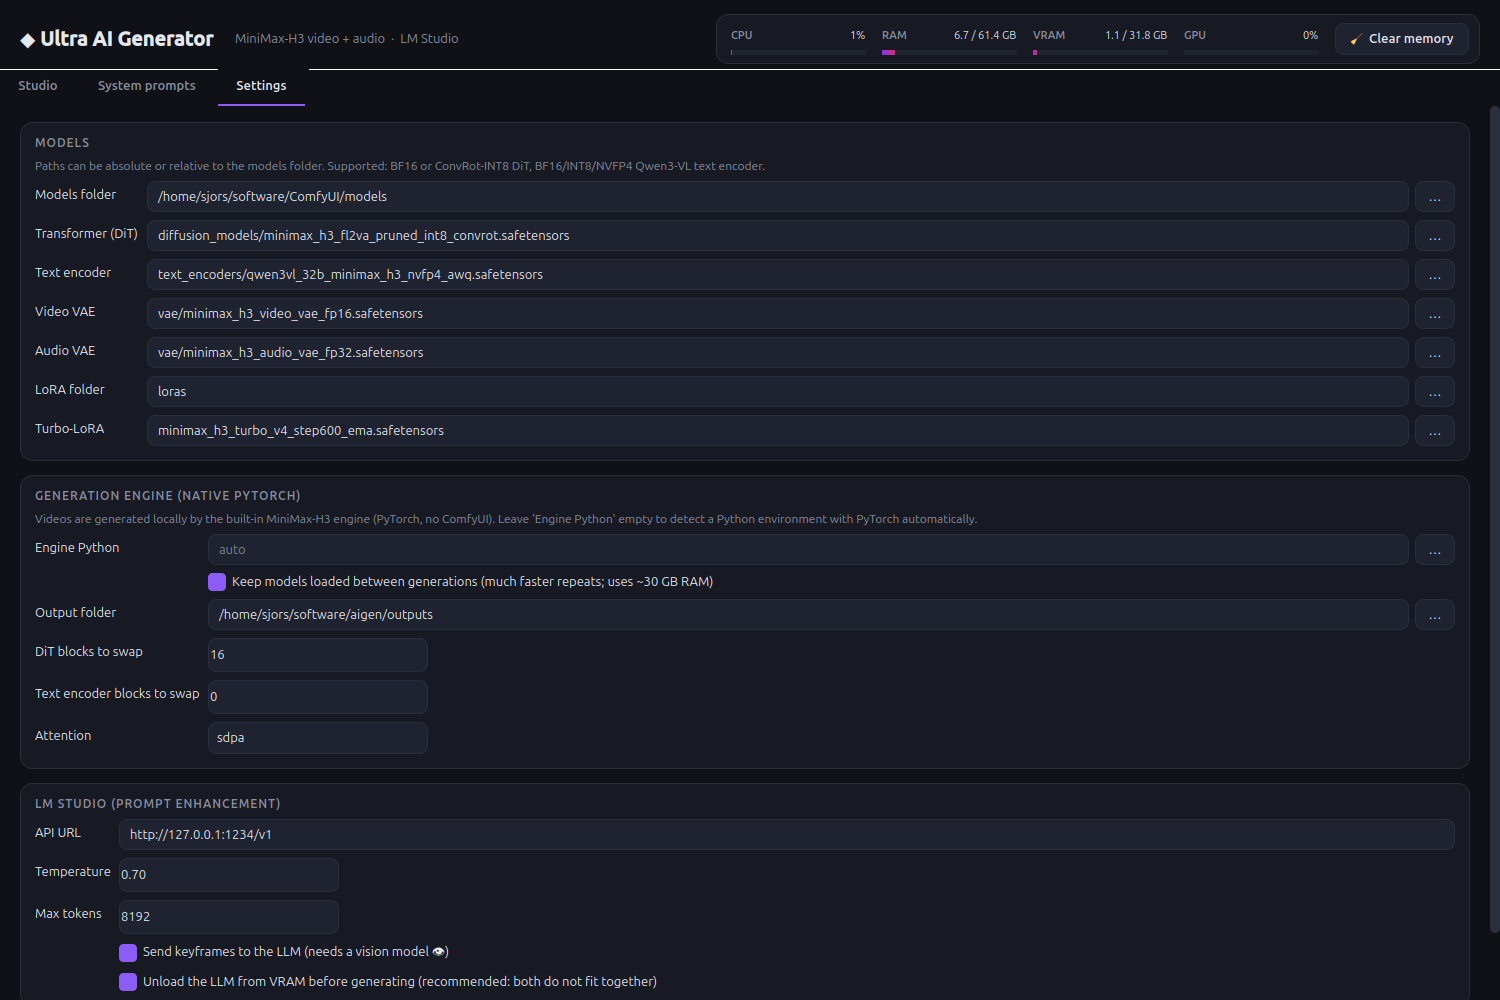
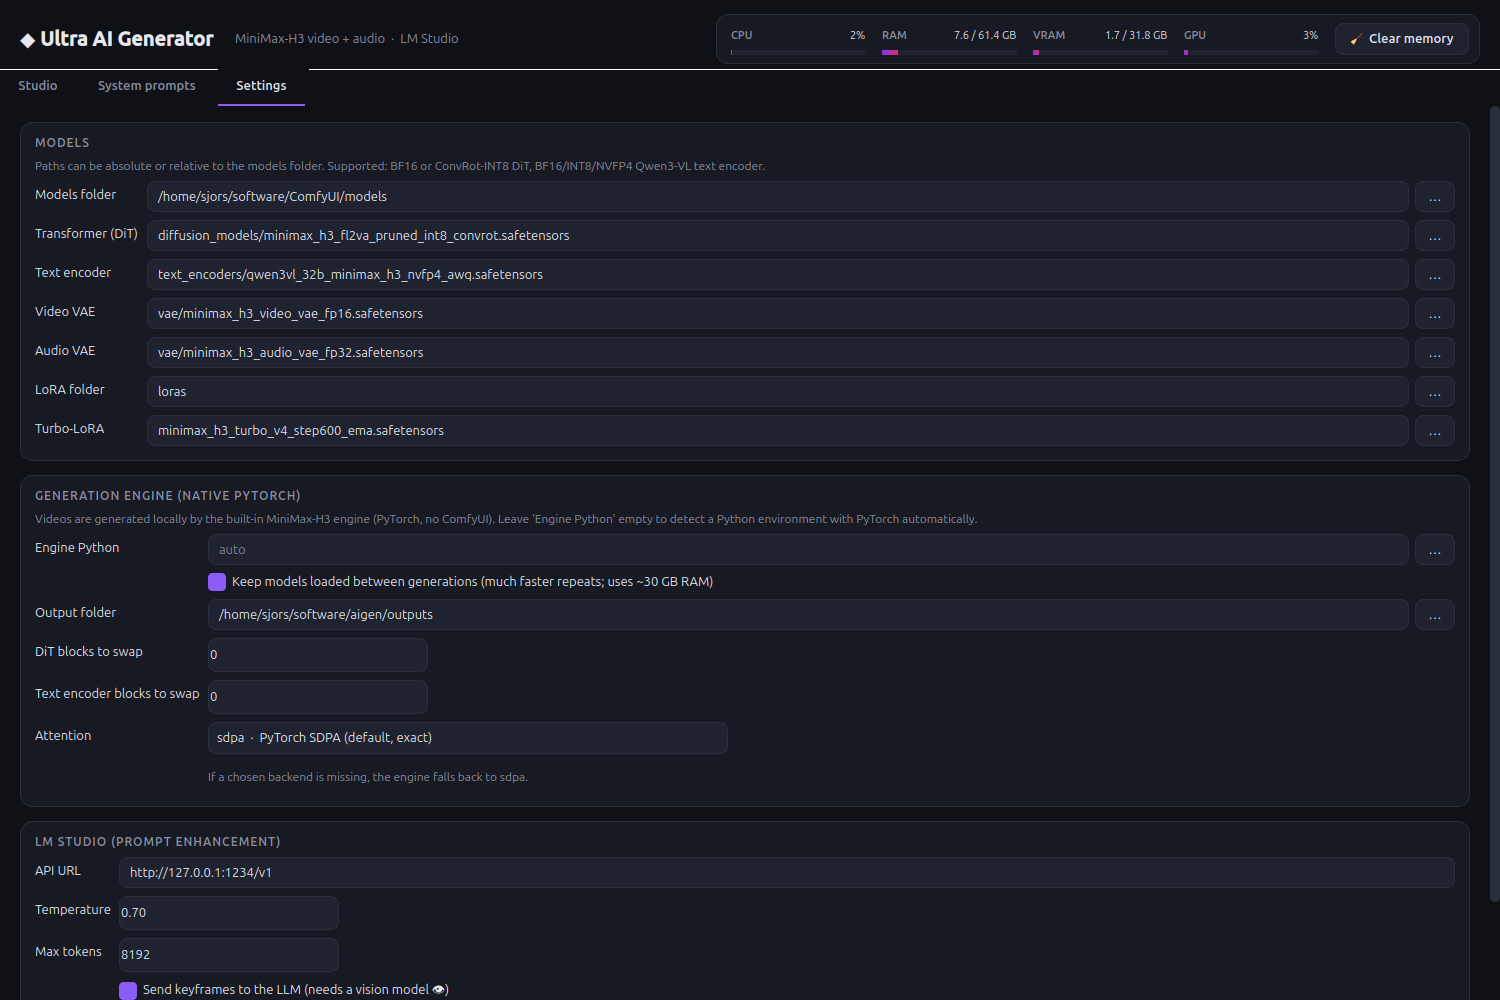
Add optional SageAttention support
SageAttention 1.0.6 works on the RTX 5090 (sm_120): about 1.8x faster
attention, and 25% faster sampling for 1344x768, 5 s (105 s -> 79 s),
more for longer videos. Outputs are just as sharp, but the same seed
gives a slightly different variant than sdpa (8-bit Q/K).

- setup_engine.sh --sage / setup_engine.bat sage installs it
  (requirements-engine-sage.txt), also into an existing environment
- Settings lists the attention backends with a description and which
  are installed in the engine environment
- The engine reports available backends and falls back to sdpa when
  the chosen one is missing instead of failing
- README: install option, setting and timings

Changed region(s): [[0.0307, 0.775, 0.4293, 1.0], [0.184, 0.713, 0.276, 0.744], [0.9813, 0.899, 1.0, 0.93]]

diff --git a/studio/ui/settings_tab.py b/studio/ui/settings_tab.py
@@ -76,13 +76,16 @@ class SettingsTab(QWidget):
         self.te_blocks_to_swap = QSpinBox(minimum=0, maximum=64)
         self.te_blocks_to_swap.setToolTip("Stream text-encoder layers from RAM (50 for GPUs with ≤24 GB).")
         self.attn_mode = QComboBox()
-        self.attn_mode.addItems(["sdpa", "torch", "flash", "flash3", "sageattn", "xformers"])
+        self.attn_hint = QLabel()
+        self.attn_hint.setObjectName("hint")
+        self.attn_hint.setWordWrap(True)
         f.addRow("Engine Python", self.engine_python)
         f.addRow("", self.keep_loaded)
         f.addRow("Output folder", self.output_dir)
         f.addRow("DiT blocks to swap", self.blocks_to_swap)
         f.addRow("Text encoder blocks to swap", self.te_blocks_to_swap)
         f.addRow("Attention", self.attn_mode)
+        f.addRow("", self.attn_hint)
         cl.addLayout(f)
         lay.addWidget(c)
 
@@ -102,7 +105,8 @@ class SettingsTab(QWidget):
         cl.addLayout(f)
         lay.addWidget(c)
 
-        for w in (self.blocks_to_swap, self.te_blocks_to_swap, self.attn_mode, self.temperature, self.max_tokens):
+        self.attn_mode.setMaximumWidth(520)
+        for w in (self.blocks_to_swap, self.te_blocks_to_swap, self.temperature, self.max_tokens):
             w.setMaximumWidth(220)
 
         row = QHBoxLayout()
@@ -135,7 +139,7 @@ class SettingsTab(QWidget):
         self.output_dir.setText(c["output_dir"])
         self.blocks_to_swap.setValue(int(c["blocks_to_swap"]))
         self.te_blocks_to_swap.setValue(int(c["text_encoder_blocks_to_swap"]))
-        self.attn_mode.setCurrentText(c["attn_mode"])
+        self.refresh_attention()
         self.lm_url.setText(c["lmstudio_url"])
         self.temperature.setValue(float(c["llm_temperature"]))
         self.max_tokens.setValue(int(c["llm_max_tokens"]))
@@ -156,13 +160,31 @@ class SettingsTab(QWidget):
             "output_dir": self.output_dir.text(),
             "blocks_to_swap": self.blocks_to_swap.value(),
             "text_encoder_blocks_to_swap": self.te_blocks_to_swap.value(),
-            "attn_mode": self.attn_mode.currentText(),
+            "attn_mode": self.attn_mode.currentData() or "sdpa",
             "lmstudio_url": self.lm_url.text().strip(),
             "llm_temperature": self.temperature.value(),
             "llm_max_tokens": self.max_tokens.value(),
             "send_images_to_llm": self.send_images.isChecked(),
             "unload_llm_before_generate": self.unload_llm.isChecked(),
         })
+
+    def refresh_attention(self):
+        """List the attention backends with what is installed in the engine environment."""
+        installed = backend.available_attention(self.cfg) or {"sdpa": True}
+        current = self.attn_mode.currentData() or self.cfg.get("attn_mode") or "sdpa"
+        if current == "torch":  # older name for sdpa
+            current = "sdpa"
+        self.attn_mode.clear()
+        for mode, (_pkg, description) in backend.ATTENTION_BACKENDS.items():
+            ok = installed.get(mode, False)
+            self.attn_mode.addItem(f"{mode}  ·  {description}" + ("" if ok else "  (not installed)"), mode)
+            item = self.attn_mode.model().item(self.attn_mode.count() - 1)
+            item.setEnabled(ok or mode == current)
+        self.attn_mode.setCurrentIndex(max(0, self.attn_mode.findData(current)))
+        missing = [] if installed.get("sageattn") else ["sageattn"]
+        self.attn_hint.setText(
+            "SageAttention is not installed. Add it with  ./setup_engine.sh --sage  (Windows: setup_engine.bat sage)."
+            if missing else "If a chosen backend is missing, the engine falls back to sdpa.")
 
     def save(self):
         self.apply()
@@ -171,6 +193,7 @@ class SettingsTab(QWidget):
 
     def check(self):
         self.apply()
+        self.refresh_attention()
         problems = backend.check_setup(self.cfg)
         if problems:
             QMessageBox.warning(self, "Setup", "\n".join(problems))

diff --git a/studio/backend.py b/studio/backend.py
@@ -1,9 +1,11 @@
 """Generation jobs and engine settings for the native MiniMax-H3 engine (studio/engine)."""
 
+import json
+import subprocess
 from dataclasses import asdict, dataclass, field
 from pathlib import Path
 
-from .config import find_engine_python, resolve_model_path
+from .config import IS_WINDOWS, find_engine_python, resolve_model_path
 
 FPS = 24
 RELEASED_SECONDS = (5.0, 15.0)  # the released model is trained on this range; outside it is experimental
@@ -35,6 +37,36 @@ def native_canvas(ratio: float, short_edge: int = 768, long_cap: int = 1344) -> 
         s = (cap / (w * h)) ** 0.5
         w, h = w * s, h * s
     return max(32, round(w / 32) * 32), max(32, round(h / 32) * 32)
+
+
+# attention backends the engine supports: mode -> (package, description); sdpa needs nothing extra
+ATTENTION_BACKENDS = {
+    "sdpa": (None, "PyTorch SDPA (default, exact)"),
+    "sageattn": ("sageattention", "SageAttention (faster; same seed gives different details)"),
+    "flash": ("flash_attn", "FlashAttention 2"),
+    "flash3": ("flash_attn_interface", "FlashAttention 3 (Hopper)"),
+    "xformers": ("xformers", "xFormers"),
+}
+
+
+def available_attention(cfg: dict) -> dict[str, bool] | None:
+    """Which attention backends are installed in the engine environment (None if unknown).
+
+    Only checks that the packages exist, so it needs no PyTorch import and takes a moment.
+    """
+    python = find_engine_python(cfg)
+    if not python or not Path(python).is_file():
+        return None
+    packages = {mode: pkg for mode, (pkg, _) in ATTENTION_BACKENDS.items() if pkg}
+    code = ("import importlib.util as u, json; "
+            f"print(json.dumps({{m: u.find_spec(p) is not None for m, p in {packages!r}.items()}}))")
+    kwargs = {"creationflags": subprocess.CREATE_NO_WINDOW} if IS_WINDOWS else {}
+    try:
+        out = subprocess.run([python, "-I", "-c", code], capture_output=True, text=True, timeout=30, **kwargs)
+        found = json.loads(out.stdout.strip().splitlines()[-1])
+    except (OSError, subprocess.SubprocessError, ValueError, IndexError):
+        return None
+    return {"sdpa": True, **found}
 
 
 @dataclass

diff --git a/studio/engine/worker.py b/studio/engine/worker.py
@@ -29,6 +29,7 @@ The orchestration follows musubi-tuner's minimax_h3_generate_video.py
 from __future__ import annotations
 
 import gc
+import importlib.util
 import json
 import logging
 import os
@@ -79,6 +80,16 @@ TEXT_CACHE_ENTRIES = 16
 MAX_BLOCKS_TO_SWAP = 48  # of the 50 DiT blocks
 SWAP_STEP = 12  # extra blocks moved to RAM per out-of-memory retry
 _PEFT_PREFIXES = ("model.diffusion_model.", "diffusion_model.", "transformer.", "base_model.model.")
+
+# attention backend -> package it needs (sdpa/torch are built into PyTorch)
+ATTENTION_PACKAGES = {"sageattn": "sageattention", "flash": "flash_attn", "flash3": "flash_attn_interface",
+                      "xformers": "xformers"}
+
+
+def available_attention() -> list[str]:
+    return ["sdpa", "torch"] + [mode for mode, pkg in ATTENTION_PACKAGES.items()
+                                if importlib.util.find_spec(pkg) is not None]
+
 
 _out = sys.stdout
 sys.stdout = sys.stderr  # stray prints from libraries must not corrupt the protocol
@@ -259,6 +270,10 @@ class Engine:
         self.release_transformer()
         emit("status", msg="Loading transformer…" if not swap else f"Loading transformer ({swap} of 50 blocks in RAM)…")
         attn = cfg["attn_mode"]
+        if attn not in available_attention():
+            logger.warning("Attention '%s' is not installed in the engine environment; using sdpa", attn)
+            emit("status", msg=f"'{attn}' is not installed, using sdpa…")
+            attn = "sdpa"
         transformer = load_h3_transformer(
             cfg["dit"], device="cpu" if swap else self.device, dtype=torch.bfloat16,
             attn_mode="torch" if attn == "sdpa" else attn, quant_device=self.device)
@@ -432,7 +447,7 @@ def main() -> None:
     engine = Engine()
     commands: queue.Queue = queue.Queue()
     threading.Thread(target=stdin_reader, args=(commands, engine), daemon=True).start()
-    emit("ready", device=str(engine.device),
+    emit("ready", device=str(engine.device), attention=available_attention(),
          gpu=torch.cuda.get_device_name(0) if torch.cuda.is_available() else None)
     while True:
         cmd = commands.get()

diff --git a/README.md b/README.md
@@ -82,6 +82,8 @@ The engine needs PyTorch with CUDA. One script creates its environment in `.engi
 
 The versions are pinned in `requirements-engine.txt`. On Windows, the script also installs `triton-windows` for the fast INT8 kernels.
 
+**Optional: SageAttention.** It makes sampling faster: about 25 % faster for a 5 s video at 768p, and more for longer videos. Install it with `./setup_engine.sh --sage` (Windows: `setup_engine.bat sage`), then choose `sageattn` under **Settings → Attention**. With an existing engine environment, only SageAttention is added.
+
 On the first generation, the engine downloads a few small tokenizer and config files from Hugging Face. It downloads no weights.
 
 ### 2. Ultra AI Generator
@@ -175,7 +177,7 @@ The LLM writes only the three H3 fields. The app adds the keyframe instruction l
 | Keep models loaded | On by default. The transformer stays loaded between generations; the text encoder and VAEs wait in RAM. Uses about 30 GB of RAM. Turn it off to free all memory after every video. |
 | DiT blocks to swap | The number of the 50 transformer blocks that are streamed from RAM. `16` is good for 32 GB. Use more for smaller GPUs, up to 48. |
 | Text encoder blocks to swap | `0` on 32 GB. `50` for GPUs with 24 GB or less. |
-| Attention | `sdpa` (default), or `flash`, `sageattn` and so on if they are installed. |
+| Attention | `sdpa` (default, exact) or `sageattn` (SageAttention, faster). The list shows which backends are installed in the engine environment. If the chosen one is missing, the engine falls back to `sdpa`. SageAttention computes attention with 8-bit Q/K. The result is just as sharp, but the same seed gives a slightly different variant than `sdpa`. |
 | LM Studio | API URL, temperature, max tokens, *send keyframes to the LLM*, *unload the LLM before generating*. |
 
 All settings are stored in `config.json`, and the presets in `system_prompts.json`.
@@ -192,7 +194,8 @@ These figures were measured on an RTX 5090 with 16 DiT blocks swapped.
 | 960×544, 5 s, turbo LoRA, 8 steps, first video | ~2 min |
 | 672×384, 2 s, turbo LoRA, 4 steps, first video | ~50 s |
 | Same, next video with models loaded (new seed) | **~15 s** |
-| 1344×768, 15 s (maximum), turbo LoRA, 4 steps | ~10 min (about 2 min per step) |
+| 1344×768, 5 s, turbo LoRA, 4 steps, sampling only | 105 s with `sdpa`, **79 s with `sageattn`** |
+| 1344×768, 15 s (maximum), turbo LoRA, 4 steps | ~10 min (about 2 min per step) with `sdpa` |
 
 With models loaded, the next video skips loading the transformer (about 12 s). If the prompt is unchanged, it also skips the text encoder (about 20 s).
 
